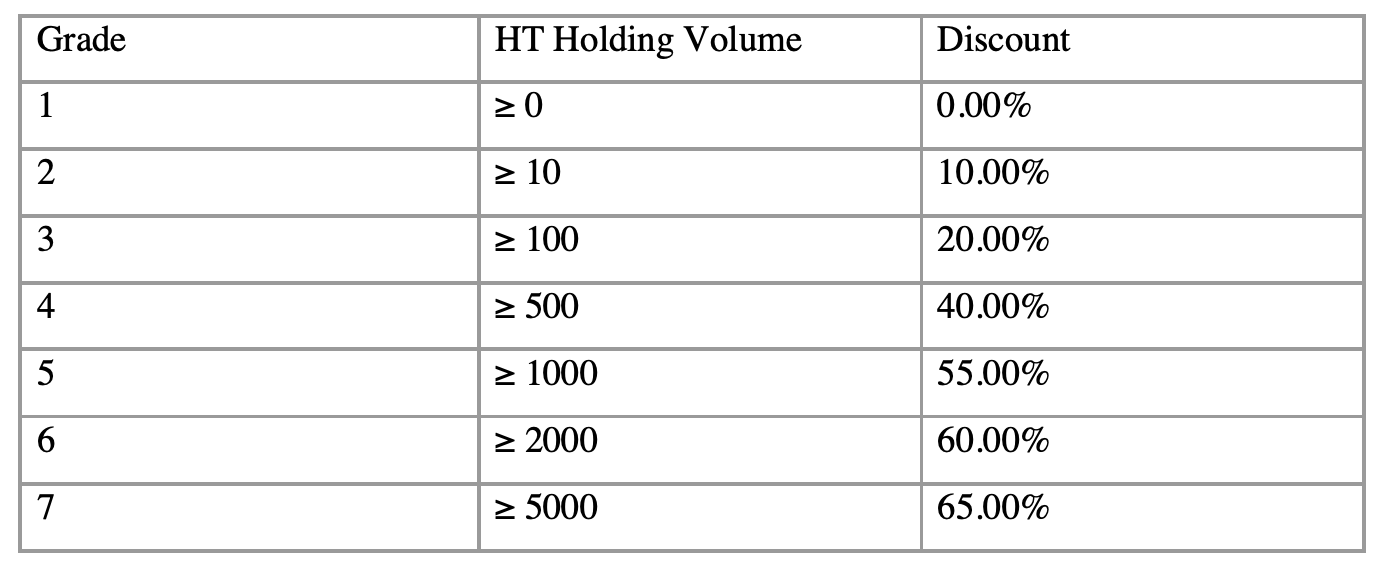
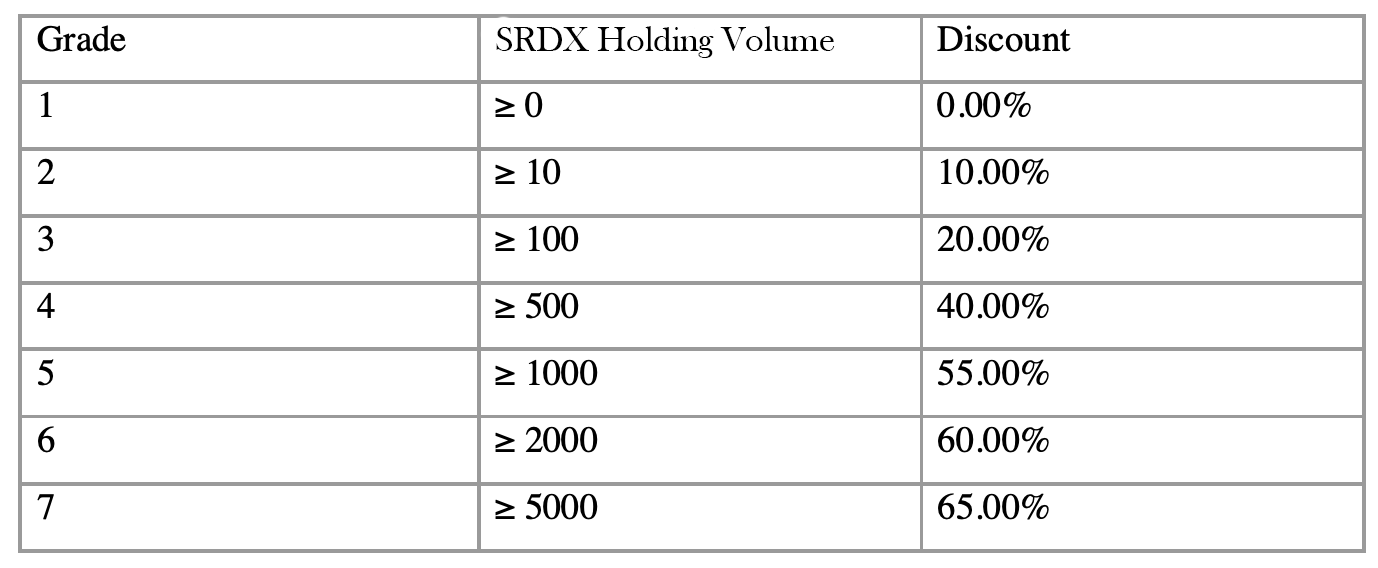
updated sixth round along with some images

Changed region(s): [[0.3433, 0.0299, 0.6241, 0.1197]]

diff --git a/genesis.md b/genesis.md
@@ -8,7 +8,7 @@ Both the mainnet and testnet genesis information of `Sardis` chain have been har
 - `number` `gasUsed` `parentHash` `nonce` `timestamp` `extraData` `gasLimit` `difficulty` are all parameters for genesis block.
 - `extraData` The initial validators is set up here.
 - `alloc` Configured initial account information that can be used for asset pre-allocation and pre-initialization of system contracts.
-    - 0xdaf88b74fca1246c6144bc846aaa3441ed095191 //Genesis account for HT
+    - 0xdaf88b74fca1246c6144bc846aaa3441ed095191 //Genesis account for SRDX
     - 000000000000000000000000000000000000f000 //validators contract address 
     - 000000000000000000000000000000000000f001 // punish contract address
     - 000000000000000000000000000000000000f002 // proposal contract address

diff --git a/dev/contract.md b/dev/contract.md
@@ -79,7 +79,7 @@ const mnemonic = fs.readFileSync(".secret").toString().trim();
 module.exports = {
   networks: {
     testnet: {
-      provider: () => new HDWalletProvider(mnemonic, 'https://http-testnet.sardisnetwork.com'),
+      provider: () => new HDWalletProvider(mnemonic, 'https://contract-testnet.sardisnetwork.com'),
       network_id: 256
     },
     mainnet: {

diff --git a/intro.md b/intro.md
@@ -118,7 +118,7 @@ chainid 256
 
 PRC
 wss://ws-testnet.sardisnetwork.com 
-https://http-testnet.sardisnetwork.com
+https://contract-testnet.sardisnetwork.com/
 
 Blockchain Explorer
 https://scan-testnet.sardisnetwork.com

diff --git a/wallet.md b/wallet.md
@@ -24,7 +24,7 @@ scan: https://sardisinfo.com
 
 ```
 chainid: 256
-rpc: https://http-testnet.sardisnetwork.com
+rpc: https://contract-testnet.sardisnetwork.com
 scan: https://testnet.sardisinfo.com
 ```
 

diff --git a/testnet.md b/testnet.md
@@ -6,7 +6,7 @@
 ```
 ## rpc
 ```
-https://http-testnet.sardisnetwork.com
+https://contract-testnet.sardisnetwork.com/
 wss://ws-testnet.sardisnetwork.com
 ```
 
